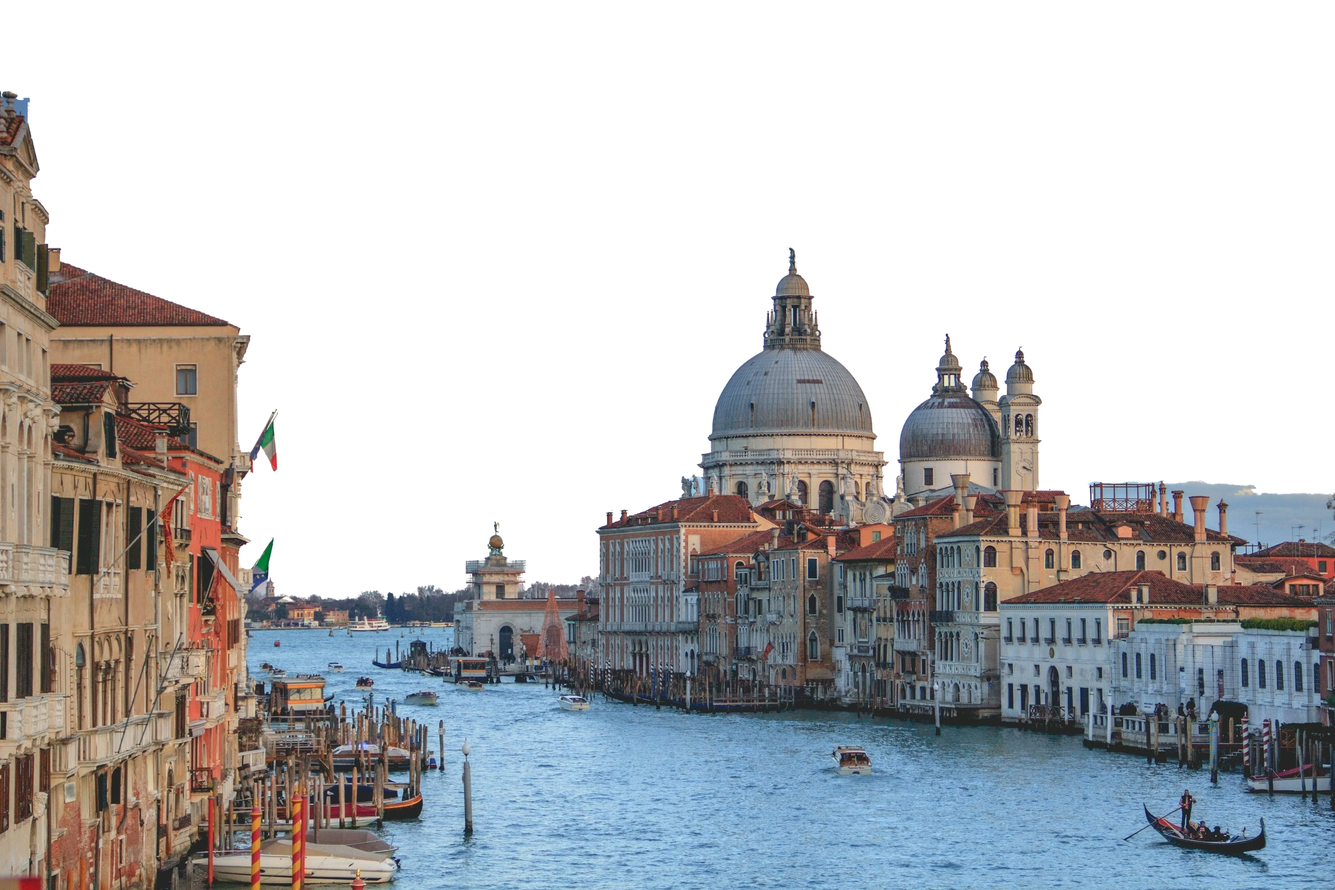
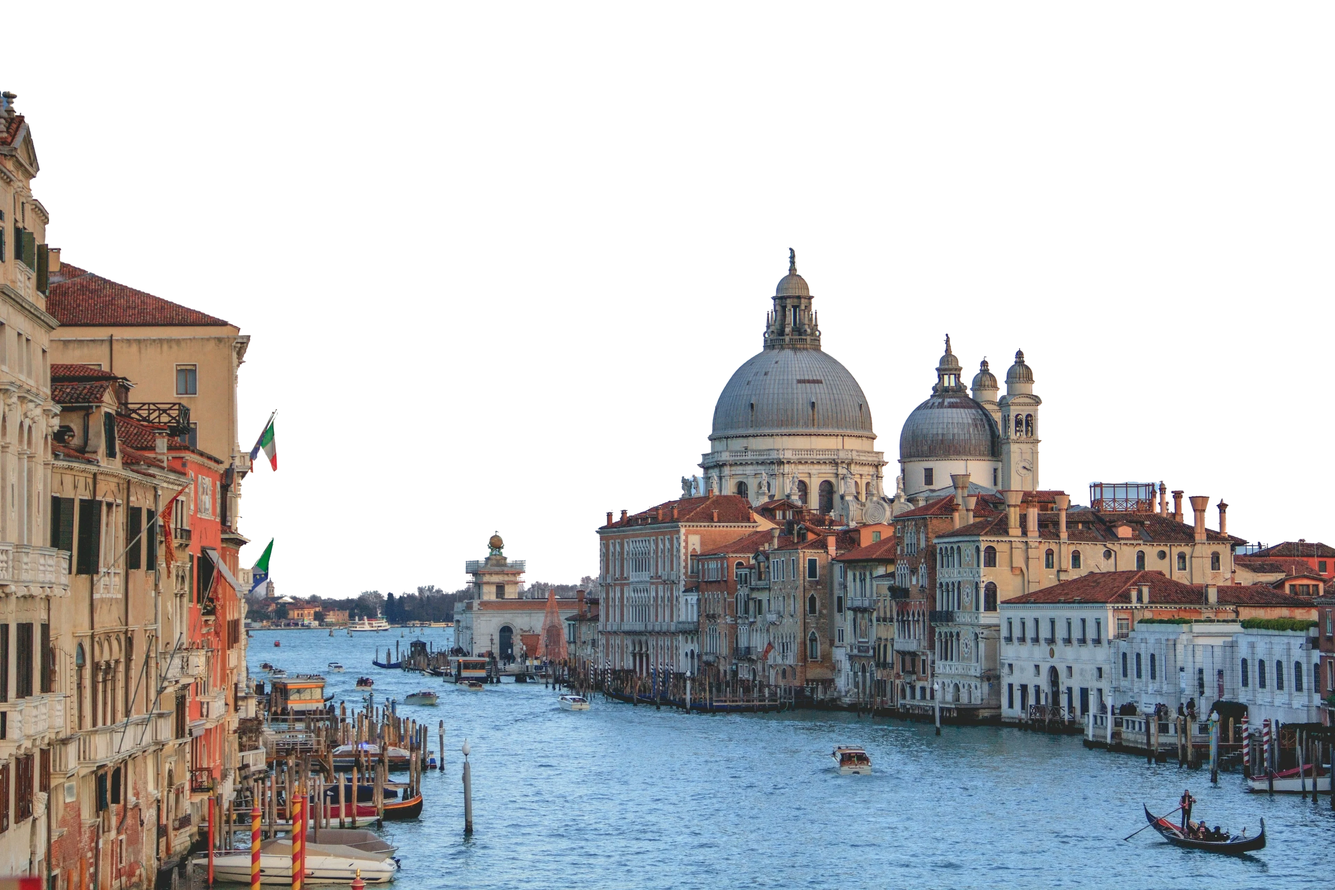
Destinations: a country's address opens on it at once; cleaner landscape cut-outs
- /destinations#<country> lands on the country without the site's glide, so the
  page settling above it (web fonts arriving) cannot leave it a line or two off.
- The three foreground cut-outs regenerated with the improved script (sky as
  colour clusters, specks of land in the sky treated as sky).

Changed region(s): [[0.8438, 0.5312, 1.0, 0.625], [0.0, 0.0938, 0.0312, 0.125]]

diff --git a/src/components/destinations/PlaceStory.tsx b/src/components/destinations/PlaceStory.tsx
@@ -133,10 +133,10 @@ const STATIC = [
   '.dz-place,.dz-place:last-of-type{height:auto;padding:0}',
   '.dz-ui+.dz-place,.dz-story[data-lead] .dz-ui+.dz-place{margin-top:0}',
   '.dz-stage{position:relative;top:auto;height:auto;margin-top:0}',
-  '.dz-scene{position:relative;height:var(--dz-hs);overflow:hidden}',
+  '.dz-scene{position:relative;height:var(--dz-hs);overflow:hidden;overflow:clip}',
   '.dz-detail{position:relative;height:auto;padding-top:clamp(2.5rem,5vw,4.5rem);padding-bottom:clamp(3rem,6vw,5.5rem);pointer-events:auto}',
   '.dz-h,.dz-copy-body,.dz-cards{opacity:1}',
-  '.dz-cards{clip-path:none;overflow-x:auto;padding-bottom:.75rem}',
+  '.dz-cards{clip-path:none;overflow-x:auto;padding-bottom:.75rem;scroll-padding-inline:var(--dz-side)}',
   '.dz-row{padding-right:var(--dz-side)}',
 ].join('');
 
@@ -172,13 +172,7 @@ const Place = memo(function Place({
   } as CSSProperties;
 
   return (
-    <article
-      id={place.slug}
-      className="dz-place"
-      aria-labelledby={titleId}
-      style={vars}
-      data-cut={scene.cutout ? '' : undefined}
-    >
+    <article id={place.slug} className="dz-place" aria-labelledby={titleId} style={vars}>
       <div className="dz-stage">
         <div className="dz-scene" aria-hidden>
           <div className="dz-media">
@@ -673,6 +667,9 @@ function drive(
   // point in the direction it was going, or back if it had barely left the
   // last one. Never on touch, keys or a glide of its own, never with reduced
   // motion (nothing is pinned then), and any new gesture takes over at once.
+  // The glide is SmoothScroll's own (`p2s:scroll-to`, as the site menu's
+  // in-page links and the pill use): everything that decides it lives here,
+  // and leaves with the story.
   let lastWheel = -Infinity;
   let heading = 1;
   let idle = 0;

diff --git a/src/components/destinations/story.ts b/src/components/destinations/story.ts
@@ -75,8 +75,10 @@ export type StoryPlace = {
  * - Croatia: Rovinj from the air (the client's photograph): the name stands
  *   out at sea, behind the wooded island's tree line.
  *
- * `skyline` and the sizes are what the cut-out script prints for each
- * photograph; run it again and update them if a photograph is replaced.
+ * `width` and `height` are the photograph's own; `skyline` is read from the
+ * skyline the cut-out script prints for it (where its land first rises, across
+ * the frame), set where the name's foot should meet the land. If a photograph
+ * is replaced, run the script again and set these afresh.
  */
 export const SCENES: Record<string, StoryScene> = {
   switzerland: {

diff --git a/src/components/destinations/destinations.css b/src/components/destinations/destinations.css
@@ -57,6 +57,15 @@
     --dz-hs: calc(100svh - var(--nav-h-compact));
   }
 }
+/* A visit to a country's address (/destinations#italy, a link or a typed
+   address) opens on the country at once, not with the site's glide down the
+   page: the browser then holds the country in place while the page above it
+   settles (its web fonts arriving), where a glide set off before that would
+   stop a line or two past the country's rest. Once the page's own smooth
+   scrolling has started (Lenis), it is in charge, as on every page. */
+html:has(.dz-story) {
+  scroll-behavior: auto;
+}
 .dz-place {
   /* How far the row of photographs travels to show its last card. */
   --dz-drift: max(

diff --git a/scripts/destination-cutouts.py b/scripts/destination-cutouts.py
@@ -20,6 +20,8 @@ How a cut-out is made (OpenCV, numpy, Pillow):
   1. GrabCut at a working size, seeded with what is certainly sky (the top of
      the frame) and certainly ground (the foot of the frame) for each photograph,
      plus a colour prior: pixels close to the sky's own colours are "probably sky".
+     It starts from a fixed random state, so a photograph is always cut the
+     same way, alone or with the others.
   2. The sky is the part of that result connected to the top edge; small specks
      of sky inside the land (gaps between leaves) are filled, specks of land in
      the sky (birds, haze) removed.
@@ -63,11 +65,12 @@ PHOTOS = {
             [(0.035, 0.22), (0.2, 0.22), (0.2, 0.27), (0.035, 0.27)],
             [(0.3, 0.22), (0.5, 0.22), (0.5, 0.45), (0.3, 0.45)],
         ],
-        # The canal and its foot; the palazzo down the left edge (its facade,
-        # then the wider block below its roof).
+        # The canal and its foot; the palazzo down the left edge (its facade
+        # from under its roof, then the wider block below). Its roof and the
+        # finials on it are left to GrabCut, for the sky between them.
         'ground': [
             [(0, 0.7), (1, 0.7), (1, 1), (0, 1)],
-            [(0, 0.11), (0.022, 0.11), (0.022, 0.38), (0, 0.38)],
+            [(0, 0.14), (0.018, 0.14), (0.022, 0.16), (0.022, 0.38), (0, 0.38)],
             [(0, 0.385), (0.165, 0.385), (0.165, 0.7), (0, 0.7)],
         ],
         'sky_sample': (0.25, 0.02, 1.0, 0.5),
@@ -133,6 +136,10 @@ def sky_likeness(lab: np.ndarray, sample: np.ndarray) -> np.ndarray:
 
 def grabcut(img: np.ndarray, cfg: dict) -> np.ndarray:
     """Binary sky mask (True = sky) at working size."""
+    # k-means and GrabCut start from OpenCV's random state, and the cut follows
+    # where they start (a bank of cloud can go either way). Fixed here, so a
+    # photograph is always cut the same way, whichever photographs run with it.
+    cv2.setRNGSeed(2)
     h, w = img.shape[:2]
     s = WORK / max(h, w)
     small = cv2.resize(img, (round(w * s), round(h * s)), interpolation=cv2.INTER_AREA)
